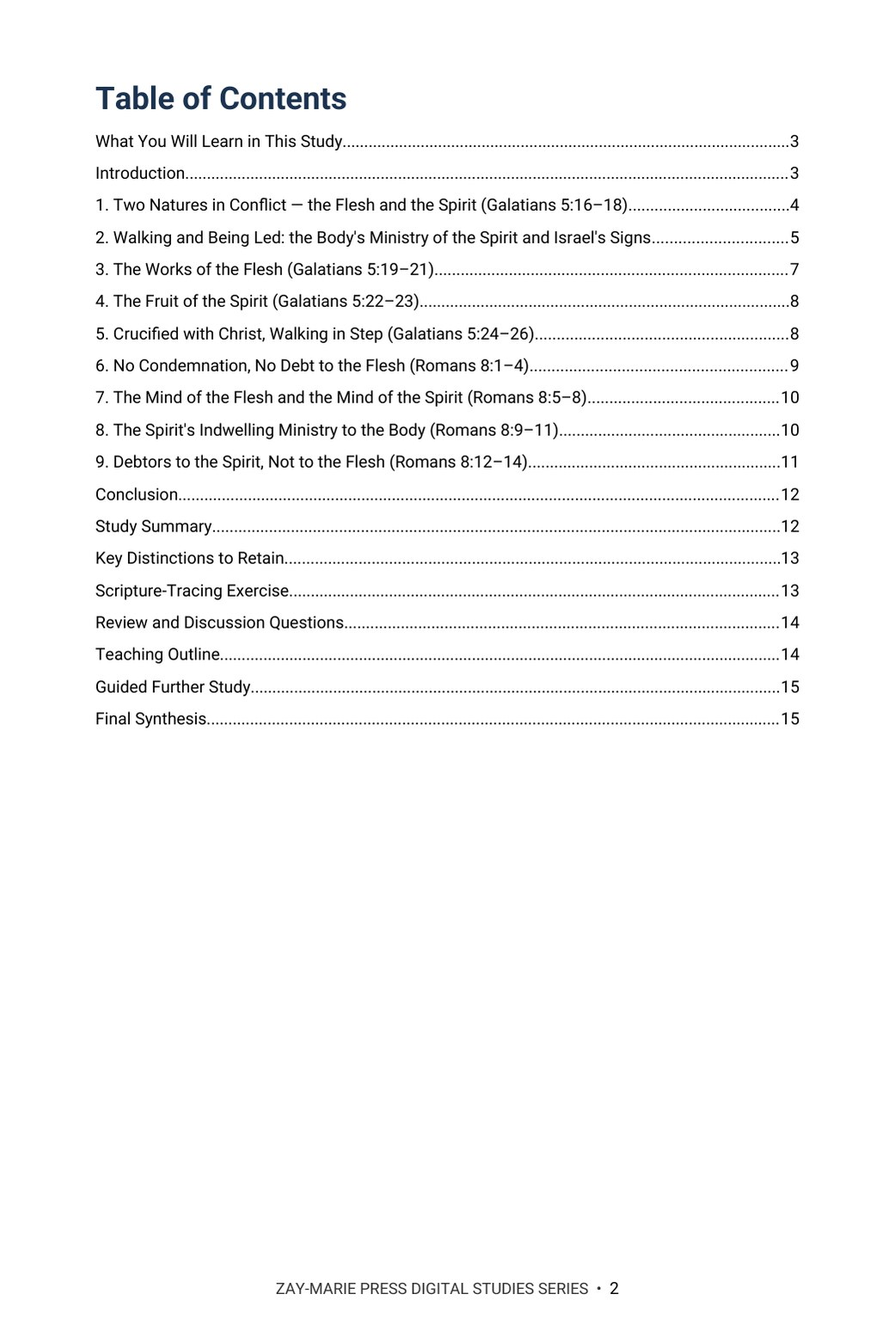
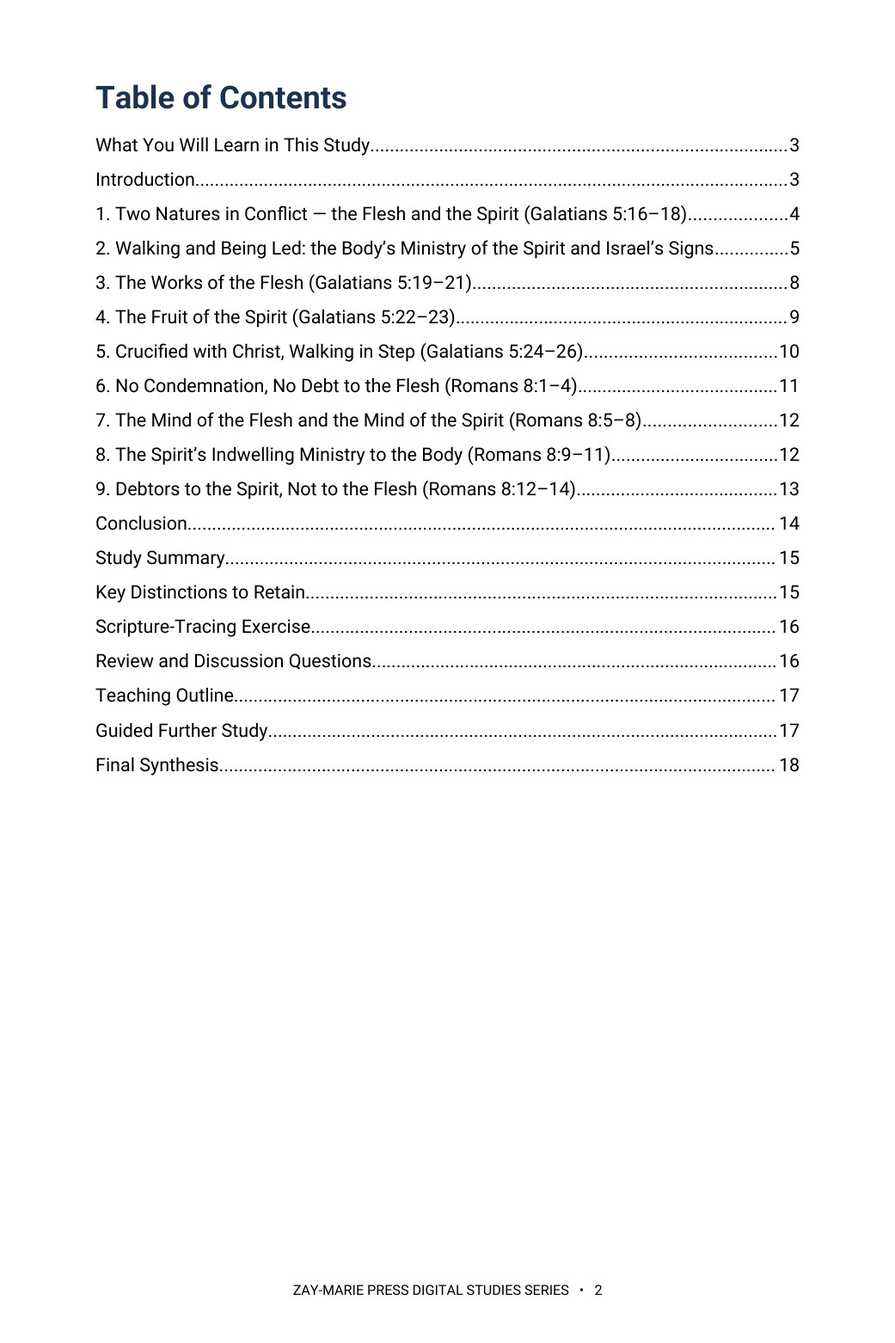
Study 44: rebuild in Roboto at 10 pt (19 pages), 1 Oct rulings re-applied, KJV tables, previews 2/3/8; trackers v1.75/v1.169
Claude-Session: https://claude.ai/code/session_01KcENxFzE91mCRyTPWhcwnE

Changed region(s): [[0.0922, 0.0615, 0.7992, 0.5839], [0.8607, 0.0922, 0.8915, 0.5839], [0.3074, 0.9526, 0.6763, 0.9834]]

diff --git a/study-44-walking-in-the-spirit.html b/study-44-walking-in-the-spirit.html
@@ -1,5 +1,5 @@
 <!doctype html>
 <html lang="en"><head><meta charset="utf-8"><meta name="viewport" content="width=device-width,initial-scale=1"><title>Walking in the Spirit | Zay-Marie Press</title><meta name="description" content="What does it mean, in Paul's own terms, to walk by the Spirit? Sort the Spirit's activity in Paul's letters from the signs and fillings recorded in Acts, then follow the works of the flesh and the fruit of the Spirit through Galatians 5 and Romans 8. Preview Study 44 from Zay-Marie Press."><link rel="stylesheet" href="styles.css?v=20260921-4"><link rel="icon" type="image/png" href="assets/zay-marie-press-favicon.png"><style>
 .study-detail-page{background:#fff;color:#252525}.detail-hero{background:linear-gradient(135deg,#f8f5ec,#e3ece2);padding:58px 0}.detail-hero-grid{display:grid;grid-template-columns:minmax(250px,.72fr) minmax(0,1.28fr);gap:58px;align-items:center}.detail-cover{max-width:390px;margin:auto}.detail-cover img{display:block;width:100%;height:auto;box-shadow:0 14px 36px rgba(8,45,69,.18)}.detail-hero h1{font-size:clamp(2.7rem,5vw,4.7rem);line-height:1.02;margin:8px 0 10px;color:#143823}.detail-subtitle{font-family:Georgia,serif;font-size:1.35rem;font-weight:700;color:#082d45;margin:0 0 7px}.detail-kicker{font-family:Georgia,serif;font-style:italic;font-size:1.05rem;color:#4a4a44;margin:0 0 22px}.detail-copy{font-size:1.08rem;line-height:1.65;max-width:760px}.detail-buyline{display:flex;align-items:center;gap:18px;flex-wrap:wrap;margin-top:25px}.detail-price{font-family:Georgia,serif;font-size:2rem;font-weight:700;color:#143823}.detail-format,.preview-card .page-no{font-family:Arial,sans-serif;font-size:.76rem;font-weight:700;letter-spacing:.1em;text-transform:uppercase;color:#176b3a}.detail-button{display:inline-block;background:#176b3a;color:#fff;padding:13px 22px;font-family:Arial,sans-serif;font-size:.8rem;font-weight:700;letter-spacing:.07em;text-transform:uppercase}.detail-button.pending{opacity:.72;cursor:default}.detail-section{padding:66px 0}.detail-section.soft{background:#f6f7f2}.detail-section.cream{background:#faf8f2}.detail-section h2{color:#143823;margin:6px 0 18px;font-size:clamp(2rem,3.4vw,3rem)}.detail-section .lead{max-width:920px;font-size:1.1rem;line-height:1.62}.study-distinction{max-width:920px;margin-top:28px;margin-bottom:28px;padding:26px 28px;background:#fff;border:1px solid #d8d1bf;border-left:4px solid #b8871c}.study-distinction h3{margin:0 0 10px;color:#143823}.study-distinction p{margin:0 0 14px;line-height:1.62}.study-distinction a{font-family:Arial,sans-serif;font-weight:700;color:#176b3a;text-decoration:none}.study-points{display:grid;grid-template-columns:repeat(3,1fr);gap:18px;margin-top:28px;margin-bottom:28px}.study-point,.scripture-card,.preview-card,.include-item{background:#fff;border:1px solid var(--line);text-align:left}.study-point{border-top:3px solid #176b3a;padding:22px}.study-point h3{color:#143823;margin:0 0 8px;font-size:1.2rem}.study-point p,.scripture-card p,.preview-card p,.include-item p{margin:0;line-height:1.55}.scripture-grid{display:grid;grid-template-columns:repeat(4,1fr);gap:14px;margin-top:24px;margin-bottom:24px}.scripture-card{padding:22px 20px;color:#143823}.scripture-card h3{margin:0 0 9px;font-family:Georgia,serif;font-size:1rem;line-height:1.35}.scripture-card p{font-size:.94rem;color:#45453f}.excerpt{max-width:900px;margin:28px auto;border-left:4px solid #b8871c;padding:10px 0 10px 28px}.excerpt blockquote{font-family:Georgia,serif;font-size:clamp(1.45rem,2.5vw,2rem);line-height:1.45;color:#143823;margin:0 0 16px}.excerpt p{line-height:1.6;margin:0}.preview-grid{display:grid;grid-template-columns:repeat(2,1fr);gap:20px;margin-top:28px;margin-bottom:28px}.preview-card{padding:18px;min-height:210px;box-shadow:0 7px 20px rgba(20,40,25,.05)}.preview-image-link{display:block;margin:0 0 18px}.preview-image-link img{display:block;width:100%;height:auto;border:1px solid #d8d1bf;box-shadow:0 8px 22px rgba(20,40,25,.1);transition:transform .18s ease,box-shadow .18s ease}.preview-image-link:hover img{transform:translateY(-2px);box-shadow:0 11px 28px rgba(20,40,25,.16)}.preview-card h3{color:#143823;margin:8px 0 10px}.preview-instruction{margin:10px 0 0;font-family:Arial,sans-serif;font-size:.78rem;letter-spacing:.04em;color:#5b5b55}.includes-grid{display:grid;grid-template-columns:repeat(4,1fr);gap:14px;margin-top:26px}.include-item{padding:22px 20px;color:#143823}.include-item h3{margin:0 0 9px;font-family:Arial,sans-serif;font-size:.86rem;line-height:1.35;letter-spacing:.02em}.include-item p{font-size:.94rem;color:#45453f}.final-buy{background:#082d45;color:#fff;border-top:4px solid #b8871c;padding:42px 48px;display:grid;grid-template-columns:1fr auto;gap:36px;align-items:center}.final-buy .eyebrow,.final-buy h2,.final-buy .detail-price{color:#fff}.final-buy h2{margin:7px 0 6px}.final-buy p{margin:0}.final-offer{text-align:center}.back-link{display:inline-block;margin-top:18px;color:#143823;font-family:Arial,sans-serif;font-weight:700;text-decoration:none}.preview-lightbox{position:fixed;inset:0;z-index:10000;display:none;align-items:flex-start;justify-content:center;background:rgba(8,22,16,.88);padding:24px;overflow:auto}.preview-lightbox.open{display:flex}.preview-lightbox img{display:block;width:auto;height:auto;max-width:none;box-shadow:0 18px 55px rgba(0,0,0,.4);background:#fff}.preview-lightbox-close{position:fixed;top:18px;right:24px;z-index:10001;width:46px;height:46px;border:1px solid rgba(255,255,255,.65);border-radius:50%;background:rgba(0,0,0,.55);color:#fff;font:32px/1 Arial,sans-serif;cursor:pointer}@media(max-width:900px){.detail-hero-grid{grid-template-columns:1fr;gap:34px}.detail-cover{max-width:330px}.study-points{grid-template-columns:repeat(2,1fr)}.scripture-grid,.includes-grid{grid-template-columns:repeat(2,1fr)}.preview-grid,.final-buy{grid-template-columns:1fr}.final-offer{text-align:left}}@media(max-width:560px){.detail-hero{padding:42px 0}.detail-section{padding:50px 0}.study-points,.scripture-grid,.includes-grid{grid-template-columns:1fr}.final-buy{padding:32px 24px}.detail-buyline{align-items:flex-start;flex-direction:column;gap:8px}.preview-lightbox{padding:58px 10px 24px}.preview-lightbox img{width:100%;max-width:100%;height:auto}} .detail-hero h1{font-size:clamp(2.1rem,4.2vw,3.7rem);line-height:1.08}</style></head><body class="study-detail-page">
-<header class="site-header"><div class="wrap nav"><a class="logo" href="index.html" aria-label="Zay-Marie Press home"><img src="assets/zay-marie-press-logo-hq.png" alt="Zay-Marie Press" width="420" height="238"></a><button class="menu-toggle" type="button" aria-expanded="false" aria-controls="primary-nav">MENU</button><nav aria-label="Primary navigation" class="primary-nav" id="primary-nav"><a href="index.html">HOME</a><a href="books.html">BOOKS</a><a href="series.html">SERIES</a><a class="active" aria-current="page" href="digital-studies.html">DIGITAL STUDIES</a><a href="biblical-hermeneutics-course.html">COURSE</a><a href="about.html">ABOUT</a><a href="resources.html">RESOURCES</a><a href="contact.html">CONTACT</a></nav></div></header><main><section class="detail-hero"><div class="wrap detail-hero-grid"><div class="detail-cover"><picture><source srcset="assets/study-44-cover.webp" type="image/webp"><img src="assets/study-44-cover.jpg" alt="Walking in the Spirit — Study 44 cover"></picture></div><div><div class="eyebrow">STUDY 44 · DIGITAL STUDY</div><h1>Walking in the Spirit</h1><p class="detail-subtitle">The Believer's Daily Walk, the Flesh, and the Fruit of the Spirit</p><p class="detail-kicker">A Biblical Examination of the Flesh/Spirit Conflict, the Body's Settled Ministry of the Spirit, and the Fruit That Walk Produces</p><p class="detail-copy">Every member of the Body of Christ discovers, usually not long after trusting Christ, that believing the gospel did not remove the capacity to sin. The flesh remains present in the believer's experience, standing opposed to the Spirit who indwells every believer from the moment of faith.</p><p class="detail-copy">This study asks a narrow, practical question: what does Paul actually say about living in that condition? It defines walking by the Spirit from Galatians 5 and Romans 8, sorts the Spirit's activity described in Paul's letters from the signs and repeated fillings recorded in Acts, and follows the works of the flesh and the fruit of the Spirit as Paul himself lists them.</p><div class="detail-buyline"><span class="detail-price">$5.99</span><span class="detail-format">Digital PDF · 16 Pages</span><span class="detail-button pending" aria-disabled="true">Checkout Coming Soon</span></div></div></div></section><section class="detail-section"><div class="wrap"><div class="eyebrow">ABOUT THIS STUDY</div><h2>A Conflict That Is Normal, Not a Sign of Failure</h2><p class="lead">The flesh and the Spirit stand genuinely opposed to one another inside every believer, and Paul treats that conflict as the normal condition of the present life, not evidence of spiritual failure. Reading Galatians 5 and Romans 8 in order shows what Paul actually commands in that condition: not trying harder to keep a rule, but a continuous, moment-by-moment dependence on the Spirit who already indwells.</p><p class="lead">This study is not a study of the believer's identity in Christ, which Study 16 examines, nor of the Acts-era fillings of the Spirit, which Study 34 examines, nor of the believer's new-creation standing, which Study 37 examines. It assumes each of those and asks a different question: given who the believer already is, how is the believer meant to walk, day by day?</p><div class="study-distinction"><h3>How These Studies Relate</h3><p>Study 44 defines what it means for a member of the Body of Christ to walk by the Spirit, and sorts that ongoing, present-age ministry from the signs and repeated fillings recorded in Acts.</p><p><a href="study-16-the-believers-identity-in-christ.html">Study 16 — The Believer's Identity in Christ</a> Start with the settled identity and standing this study assumes; Study 44 examines how that standing works itself out in daily conduct.</p><p><a href="study-34-filled-again.html">Study 34 — Filled Again</a> Read the Acts-era pattern of repeated, renewed fillings for Israel's apostolic servants; this study distinguishes that from the Body's settled, once-for-all indwelling.</p><p><a href="study-37-what-does-paul-mean-by-new-creation.html">Study 37 — What Does Paul Mean by “New Creation”?</a> Examine the accomplished new-creation standing this study presupposes without repeating; Study 44 focuses on the present-tense walk rather than the standing itself.</p><p class="connection-guide-link"><a href="study-connections.html#study-44">Explore the full connection guide for Study 44 →</a></p></div></div></section><section class="detail-section soft"><div class="wrap"><div class="eyebrow">WHAT YOU’LL STUDY</div><h2>Follow the Walk From Command to Conflict to Fruit</h2><div class="study-points"><div class="study-point"><h3>Two Natures in Conflict</h3><p>Read Galatians 5:16–18 to see what Paul says about walking by the Spirit and how the flesh and the Spirit relate in the believer.</p></div><div class="study-point"><h3>Whose Ministry This Is</h3><p>Sort the Spirit's activity in Paul's letters from the activity recorded in Acts by audience, setting, and vocabulary.</p></div><div class="study-point"><h3>The Works of the Flesh</h3><p>Read Galatians 5:19–21's list on its own terms, and test whether it describes a habitual life pattern or an isolated lapse.</p></div><div class="study-point"><h3>The Fruit of the Spirit</h3><p>Trace why Paul writes “fruit,” singular, and test what that grammar implies about how it comes about.</p></div><div class="study-point"><h3>No Condemnation</h3><p>Trace how Romans 8:1–4 relates the daily walk to the verdict announced in verse 1.</p></div><div class="study-point"><h3>Debtors to the Spirit</h3><p>Follow Romans 8:12–14 and note what Paul says being led by the Spirit identifies.</p></div></div></div></section><section class="detail-section cream"><div class="wrap"><div class="eyebrow">KEY SCRIPTURES</div><h2>Examine the Passages for Yourself</h2><div class="scripture-grid"><div class="scripture-card"><h3>Galatians 5:16–18</h3><p>Walk in the Spirit, and the flesh and Spirit are shown genuinely opposed to one another.</p></div><div class="scripture-card"><h3>Galatians 5:19–21</h3><p>The works of the flesh, plural and manifest, as Paul actually lists them.</p></div><div class="scripture-card"><h3>Galatians 5:22–23</h3><p>The fruit of the Spirit — singular — against which Paul says there is no law.</p></div><div class="scripture-card"><h3>Galatians 5:24–26</h3><p>Have crucified the flesh; let us also walk — the fact and the command.</p></div><div class="scripture-card"><h3>Romans 8:1–4</h3><p>No condemnation, and why the law could not produce righteousness in experience.</p></div><div class="scripture-card"><h3>Romans 8:5–8</h3><p>The mind of the flesh and the mind of the Spirit, and their stated outcomes.</p></div><div class="scripture-card"><h3>Romans 8:9–11</h3><p>The Spirit's permanent indwelling, and what it guarantees for the future.</p></div><div class="scripture-card"><h3>Romans 8:12–14</h3><p>Debtors to the Spirit, and the sonship that being led by the Spirit confirms.</p></div></div></div></section><section class="detail-section"><div class="wrap"><div class="eyebrow">FROM THE STUDY</div><h2>The Walk Is the Means, the Fruit Is What It Yields</h2><div class="excerpt"><blockquote>“Works” (plural, effort-driven) stands against “fruit” (singular, grown rather than manufactured).</blockquote><p>Paul's imperative in Galatians 5:16 is to walk in the Spirit, not to produce the nine qualities of the fruit directly. The walk is the means; the fruit is what the walk yields — the way a healthy tree bears fruit as an outworking of its nature rather than as a series of independent labors.</p></div></div></section><section class="detail-section soft"><div class="wrap"><div class="eyebrow">A LOOK INSIDE</div><h2>Preview the Study Before You Purchase</h2><p class="preview-instruction">Click any page to enlarge it for reading.</p><div class="preview-grid"><div class="preview-card"><a class="preview-image-link" data-preview-lightbox href="assets/study-44-page-2.jpg"><img src="assets/study-44-page-2.jpg" alt="Study 44 interior preview — page 2, table of contents"/></a><div class="page-no">Page 2</div><h3>Table of Contents</h3><p>See the full structure of the study, from the introduction through the final synthesis.</p></div><div class="preview-card"><a class="preview-image-link" data-preview-lightbox href="assets/study-44-page-3.jpg"><img src="assets/study-44-page-3.jpg" alt="Study 44 interior preview — page 3, what you will learn"/></a><div class="page-no">Page 3</div><h3>What You Will Learn</h3><p>See the study’s goals, controls, and central question at a glance.</p></div><div class="preview-card"><a class="preview-image-link" data-preview-lightbox href="assets/study-44-page-7.jpg"><img src="assets/study-44-page-7.jpg" alt="Study 44 interior preview — page 7, Paul’s statements on sealing and indwelling in KJV wording"/></a><div class="page-no">Page 7</div><h3>Sealing and Indwelling in Paul’s Words</h3><p>Read Paul’s statements on sealing and indwelling in KJV wording and observe the verb tenses in each.</p></div></div></div></section><section class="detail-section"><div class="wrap"><div class="eyebrow">WHAT’S INCLUDED</div><h2>A Focused Study Built for<br>Understanding and Teaching</h2><div class="includes-grid"><div class="include-item"><h3>16-Page In-Depth Biblical Study</h3><p>A careful study of the believer's daily walk, the flesh, and the fruit of the Spirit.</p></div><div class="include-item"><h3>9 Core Teaching Sections</h3><p>Progress from the command and the conflict through the works of the flesh to the fruit and its legal ground.</p></div><div class="include-item"><h3>Four Reference Tables</h3><p>Compare the Spirit's activity in Paul's letters with the activity recorded in Acts, and read the key passages in KJV wording.</p></div><div class="include-item"><h3>7 Review Questions</h3><p>Test the study's distinctions concerning the flesh, the Spirit, and the ground of the walk.</p></div><div class="include-item"><h3>Teaching Outline</h3><p>An eight-point framework for teaching the flesh/Spirit conflict and the fruit of the Spirit with precision.</p></div><div class="include-item"><h3>Guided Further Study</h3><p>Return to the Spirit's sealing, Acts-era fillings, the flesh, and sonship with directed questions.</p></div><div class="include-item"><h3>Scripture-Tracing Exercise</h3><p>Trace the study's key passages across Galatians 5 and Romans 8 in their own context.</p></div><div class="include-item"><h3>Final Synthesis Exercise</h3><p>Bring the evidence together in one coherent, Scripture-based explanation.</p></div></div></div></section><section class="detail-section cream"><div class="wrap"><div class="final-buy"><div><div class="eyebrow">STUDY 44 · DIGITAL STUDY</div><h2>Walking in the Spirit</h2><p>16-page digital PDF · For personal use</p></div><div class="final-offer"><div class="detail-price">$5.99</div><span class="detail-button pending" aria-disabled="true">Checkout Coming Soon</span></div></div><a class="back-link" href="digital-studies.html">← Back to All Digital Studies</a></div></section><section class="study-method-course-bridge"><div class="wrap"><div class="study-method-course-panel"><div><div class="eyebrow">BUILD THE INTERPRETIVE METHOD</div><h2>Want More Than a Focused Study?</h2><p>Digital Studies examine particular biblical subjects and difficult passages. The 40-lesson Biblical Hermeneutics course teaches a complete, repeatable method for establishing meaning in context, determining proper assignment, and making responsible application.</p></div><a class="btn btn-primary" href="biblical-hermeneutics-course.html">BIBLICAL HERMENEUTICS COURSE</a></div></div></section></main>
+<header class="site-header"><div class="wrap nav"><a class="logo" href="index.html" aria-label="Zay-Marie Press home"><img src="assets/zay-marie-press-logo-hq.png" alt="Zay-Marie Press" width="420" height="238"></a><button class="menu-toggle" type="button" aria-expanded="false" aria-controls="primary-nav">MENU</button><nav aria-label="Primary navigation" class="primary-nav" id="primary-nav"><a href="index.html">HOME</a><a href="books.html">BOOKS</a><a href="series.html">SERIES</a><a class="active" aria-current="page" href="digital-studies.html">DIGITAL STUDIES</a><a href="biblical-hermeneutics-course.html">COURSE</a><a href="about.html">ABOUT</a><a href="resources.html">RESOURCES</a><a href="contact.html">CONTACT</a></nav></div></header><main><section class="detail-hero"><div class="wrap detail-hero-grid"><div class="detail-cover"><picture><source srcset="assets/study-44-cover.webp" type="image/webp"><img src="assets/study-44-cover.jpg" alt="Walking in the Spirit — Study 44 cover"></picture></div><div><div class="eyebrow">STUDY 44 · DIGITAL STUDY</div><h1>Walking in the Spirit</h1><p class="detail-subtitle">The Believer's Daily Walk, the Flesh, and the Fruit of the Spirit</p><p class="detail-kicker">A Biblical Examination of the Flesh/Spirit Conflict, the Body's Settled Ministry of the Spirit, and the Fruit That Walk Produces</p><p class="detail-copy">Every member of the Body of Christ discovers, usually not long after trusting Christ, that believing the gospel did not remove the capacity to sin. The flesh remains present in the believer's experience, standing opposed to the Spirit who indwells every believer from the moment of faith.</p><p class="detail-copy">This study asks a narrow, practical question: what does Paul actually say about living in that condition? It defines walking by the Spirit from Galatians 5 and Romans 8, sorts the Spirit's activity described in Paul's letters from the signs and repeated fillings recorded in Acts, and follows the works of the flesh and the fruit of the Spirit as Paul himself lists them.</p><div class="detail-buyline"><span class="detail-price">$5.99</span><span class="detail-format">Digital PDF · 19 Pages</span><span class="detail-button pending" aria-disabled="true">Checkout Coming Soon</span></div></div></div></section><section class="detail-section"><div class="wrap"><div class="eyebrow">ABOUT THIS STUDY</div><h2>A Conflict That Is Normal, Not a Sign of Failure</h2><p class="lead">The flesh and the Spirit stand genuinely opposed to one another inside every believer, and Paul treats that conflict as the normal condition of the present life, not evidence of spiritual failure. Reading Galatians 5 and Romans 8 in order shows what Paul actually commands in that condition: not trying harder to keep a rule, but a continuous, moment-by-moment dependence on the Spirit who already indwells.</p><p class="lead">This study is not a study of the believer's identity in Christ, which Study 16 examines, nor of the Acts-era fillings of the Spirit, which Study 34 examines, nor of the believer's new-creation standing, which Study 37 examines. It assumes each of those and asks a different question: given who the believer already is, how is the believer meant to walk, day by day?</p><div class="study-distinction"><h3>How These Studies Relate</h3><p>Study 44 defines what it means for a member of the Body of Christ to walk by the Spirit, and sorts that ongoing, present-age ministry from the signs and repeated fillings recorded in Acts.</p><p><a href="study-16-the-believers-identity-in-christ.html">Study 16 — The Believer's Identity in Christ</a> Start with the settled identity and standing this study assumes; Study 44 examines how that standing works itself out in daily conduct.</p><p><a href="study-34-filled-again.html">Study 34 — Filled Again</a> Read the Acts-era pattern of repeated, renewed fillings for Israel's apostolic servants; this study distinguishes that from the Body's settled, once-for-all indwelling.</p><p><a href="study-37-what-does-paul-mean-by-new-creation.html">Study 37 — What Does Paul Mean by “New Creation”?</a> Examine the accomplished new-creation standing this study presupposes without repeating; Study 44 focuses on the present-tense walk rather than the standing itself.</p><p class="connection-guide-link"><a href="study-connections.html#study-44">Explore the full connection guide for Study 44 →</a></p></div></div></section><section class="detail-section soft"><div class="wrap"><div class="eyebrow">WHAT YOU’LL STUDY</div><h2>Follow the Walk From Command to Conflict to Fruit</h2><div class="study-points"><div class="study-point"><h3>Two Natures in Conflict</h3><p>Read Galatians 5:16–18 to see what Paul says about walking by the Spirit and how the flesh and the Spirit relate in the believer.</p></div><div class="study-point"><h3>Whose Ministry This Is</h3><p>Sort the Spirit's activity in Paul's letters from the activity recorded in Acts by audience, setting, and vocabulary.</p></div><div class="study-point"><h3>The Works of the Flesh</h3><p>Read Galatians 5:19–21's list on its own terms, and test whether it describes a habitual life pattern or an isolated lapse.</p></div><div class="study-point"><h3>The Fruit of the Spirit</h3><p>Trace why Paul writes “fruit,” singular, and test what that grammar implies about how it comes about.</p></div><div class="study-point"><h3>No Condemnation</h3><p>Trace how Romans 8:1–4 relates the daily walk to the verdict announced in verse 1.</p></div><div class="study-point"><h3>Debtors to the Spirit</h3><p>Follow Romans 8:12–14 and note what Paul says being led by the Spirit identifies.</p></div></div></div></section><section class="detail-section cream"><div class="wrap"><div class="eyebrow">KEY SCRIPTURES</div><h2>Examine the Passages for Yourself</h2><div class="scripture-grid"><div class="scripture-card"><h3>Galatians 5:16–18</h3><p>Walk in the Spirit, and the flesh and Spirit are shown genuinely opposed to one another.</p></div><div class="scripture-card"><h3>Galatians 5:19–21</h3><p>The works of the flesh, plural and manifest, as Paul actually lists them.</p></div><div class="scripture-card"><h3>Galatians 5:22–23</h3><p>The fruit of the Spirit — singular — against which Paul says there is no law.</p></div><div class="scripture-card"><h3>Galatians 5:24–26</h3><p>Have crucified the flesh; let us also walk — the fact and the command.</p></div><div class="scripture-card"><h3>Romans 8:1–4</h3><p>No condemnation, and why the law could not produce righteousness in experience.</p></div><div class="scripture-card"><h3>Romans 8:5–8</h3><p>The mind of the flesh and the mind of the Spirit, and their stated outcomes.</p></div><div class="scripture-card"><h3>Romans 8:9–11</h3><p>The Spirit's permanent indwelling, and what it guarantees for the future.</p></div><div class="scripture-card"><h3>Romans 8:12–14</h3><p>Debtors to the Spirit, and the sonship that being led by the Spirit confirms.</p></div></div></div></section><section class="detail-section"><div class="wrap"><div class="eyebrow">FROM THE STUDY</div><h2>The Walk Is the Means, the Fruit Is What It Yields</h2><div class="excerpt"><blockquote>“Works” (plural, effort-driven) stands against “fruit” (singular, grown rather than manufactured).</blockquote><p>Paul's imperative in Galatians 5:16 is to walk in the Spirit, not to produce the nine qualities of the fruit directly. The walk is the means; the fruit is what the walk yields — the way a healthy tree bears fruit as an outworking of its nature rather than as a series of independent labors.</p></div></div></section><section class="detail-section soft"><div class="wrap"><div class="eyebrow">A LOOK INSIDE</div><h2>Preview the Study Before You Purchase</h2><p class="preview-instruction">Click any page to enlarge it for reading.</p><div class="preview-grid"><div class="preview-card"><a class="preview-image-link" data-preview-lightbox href="assets/study-44-page-2.jpg"><img src="assets/study-44-page-2.jpg" alt="Study 44 interior preview — page 2, table of contents"/></a><div class="page-no">Page 2</div><h3>Table of Contents</h3><p>See the full structure of the study, from the introduction through the final synthesis.</p></div><div class="preview-card"><a class="preview-image-link" data-preview-lightbox href="assets/study-44-page-3.jpg"><img src="assets/study-44-page-3.jpg" alt="Study 44 interior preview — page 3, what you will learn"/></a><div class="page-no">Page 3</div><h3>What You Will Learn</h3><p>See the study’s goals, controls, and central question at a glance.</p></div><div class="preview-card"><a class="preview-image-link" data-preview-lightbox href="assets/study-44-page-8.jpg"><img src="assets/study-44-page-8.jpg" alt="Study 44 interior preview — page 8, Paul’s statements on sealing and indwelling in KJV wording"/></a><div class="page-no">Page 8</div><h3>Sealing and Indwelling in Paul’s Words</h3><p>Read Paul’s statements on sealing and indwelling in KJV wording and observe the verb tenses in each.</p></div></div></div></section><section class="detail-section"><div class="wrap"><div class="eyebrow">WHAT’S INCLUDED</div><h2>A Focused Study Built for<br>Understanding and Teaching</h2><div class="includes-grid"><div class="include-item"><h3>18-Page In-Depth Biblical Study</h3><p>A careful study of the believer's daily walk, the flesh, and the fruit of the Spirit.</p></div><div class="include-item"><h3>9 Core Teaching Sections</h3><p>Progress from the command and the conflict through the works of the flesh to the fruit and its legal ground.</p></div><div class="include-item"><h3>Four Reference Tables</h3><p>Compare the Spirit's activity in Paul's letters with the activity recorded in Acts, and read the key passages in KJV wording.</p></div><div class="include-item"><h3>7 Review Questions</h3><p>Test the study's distinctions concerning the flesh, the Spirit, and the ground of the walk.</p></div><div class="include-item"><h3>Teaching Outline</h3><p>An eight-point framework for teaching the flesh/Spirit conflict and the fruit of the Spirit with precision.</p></div><div class="include-item"><h3>Guided Further Study</h3><p>Return to the Spirit's sealing, Acts-era fillings, the flesh, and sonship with directed questions.</p></div><div class="include-item"><h3>Scripture-Tracing Exercise</h3><p>Trace the study's key passages across Galatians 5 and Romans 8 in their own context.</p></div><div class="include-item"><h3>Final Synthesis Exercise</h3><p>Bring the evidence together in one coherent, Scripture-based explanation.</p></div></div></div></section><section class="detail-section cream"><div class="wrap"><div class="final-buy"><div><div class="eyebrow">STUDY 44 · DIGITAL STUDY</div><h2>Walking in the Spirit</h2><p>19-page digital PDF · For personal use</p></div><div class="final-offer"><div class="detail-price">$5.99</div><span class="detail-button pending" aria-disabled="true">Checkout Coming Soon</span></div></div><a class="back-link" href="digital-studies.html">← Back to All Digital Studies</a></div></section><section class="study-method-course-bridge"><div class="wrap"><div class="study-method-course-panel"><div><div class="eyebrow">BUILD THE INTERPRETIVE METHOD</div><h2>Want More Than a Focused Study?</h2><p>Digital Studies examine particular biblical subjects and difficult passages. The 40-lesson Biblical Hermeneutics course teaches a complete, repeatable method for establishing meaning in context, determining proper assignment, and making responsible application.</p></div><a class="btn btn-primary" href="biblical-hermeneutics-course.html">BIBLICAL HERMENEUTICS COURSE</a></div></div></section></main>
 <div class="preview-lightbox" id="preview-lightbox" role="dialog" aria-modal="true" aria-label="Expanded study preview"><button class="preview-lightbox-close" type="button" aria-label="Close preview">×</button><img id="preview-lightbox-image" alt=""></div><footer class="site-footer"><div class="wrap footer-grid"><div class="footer-about"><h3>Zay-Marie Press</h3><p class="footer-tagline"><em>Where the Bible Means What It Says.</em></p><p>Zay-Marie Press is a Christian theological publisher dedicated to producing doctrinally precise, carefully structured biblical resources that equip pastors, teachers, and serious students with clarity, depth, and Scripture-anchored truth.</p><p><a href="https://zaymariepress.com">zaymariepress.com</a><br><a href="mailto:info@zaymariepress.com">info@zaymariepress.com</a></p></div><div class="footer-column"><h3>Explore</h3><div class="footer-links-stacked"><a href="books.html">Books</a><br><a href="series.html">Series</a><br><a href="biblical-hermeneutics-course.html">Course</a><br><a href="digital-studies.html">Digital Studies</a><br><a href="resources.html">Resources</a><br><a href="bible-book-summaries.html">Bible Book Summaries</a><br><a href="doctrinal-packets.html">Doctrinal Packets</a><br><a href="historical-drift.html">Historical Drift</a><br><a href="about.html">About</a><br><a href="contact.html">Contact</a></div></div><div class="footer-column"><h3>Reader Support</h3><div class="footer-links-stacked"><a href="reader-support.html#faq">FAQ</a><br><a href="reader-support.html#shipping-returns">Shipping &amp; Returns</a><br><a href="reader-support.html#digital-downloads">Digital Downloads</a><br><a href="reader-support.html#contact-support">Contact Support</a></div></div><div class="footer-column"><h3>Acts Overlap</h3><p><strong>Acts Overlap Theology Series</strong></p><p><em>Two Distinct Streams. One Overlap.</em></p><p><a href="series.html">Series Overview</a></p></div></div><div class="wrap footer-bottom">© 2026 Zay-Marie Press. All rights reserved.</div></footer><script src="site.js"></script><script>const lightbox=document.getElementById('preview-lightbox'),lightboxImage=document.getElementById('preview-lightbox-image'),closeLightbox=()=>{lightbox.classList.remove('open');lightboxImage.src='';};document.querySelectorAll('[data-preview-lightbox]').forEach(link=>link.addEventListener('click',event=>{event.preventDefault();lightboxImage.src=link.href;lightboxImage.alt=link.querySelector('img').alt;lightbox.classList.add('open');}));document.querySelector('.preview-lightbox-close').addEventListener('click',closeLightbox);lightbox.addEventListener('click',event=>{if(event.target===lightbox)closeLightbox();});document.addEventListener('keydown',event=>{if(event.key==='Escape')closeLightbox();});</script></body></html>

diff --git a/site.js b/site.js
@@ -62,7 +62,7 @@ const resourceModal=document.querySelector('#resource-modal'), resourceModalTitl
 if(resourceModal&&resourceModalTriggers.length){const closeResourceModal=()=>{resourceModal.hidden=true;document.body.classList.remove('resource-modal-open');lastResourceTrigger?.focus();};resourceModalTriggers.forEach(trigger=>trigger.addEventListener('click',()=>{lastResourceTrigger=trigger;if(resourceModalTitle)resourceModalTitle.textContent=trigger.dataset.title||'Resource';if(resourceModalDescription)resourceModalDescription.textContent=trigger.dataset.description||'';if(resourceModalLink){resourceModalLink.href=trigger.dataset.href||'#';resourceModalLink.textContent=trigger.dataset.linkText||'OPEN RESOURCE';}resourceModal.hidden=false;document.body.classList.add('resource-modal-open');resourceModalClose?.focus();}));resourceModalClose?.addEventListener('click',closeResourceModal);resourceModal.addEventListener('click',e=>{if(e.target===resourceModal)closeResourceModal();});document.addEventListener('keydown',e=>{if(e.key==='Escape'&&!resourceModal.hidden)closeResourceModal();});}
 
 /* Display the verified final-PDF page count at the primary purchase decision point. */
-const digitalStudyPageCounts={1:17,2:19,3:16,4:18,5:16,6:16,7:14,8:13,9:16,10:20,11:15,12:15,13:19,14:15,15:15,16:16,17:18,18:18,19:16,20:16,21:17,22:16,23:14,24:16,25:17,26:16,27:16,28:16,29:19,30:17,31:18,32:19,33:18,34:16,35:16,36:16,37:16,38:16,39:16,40:16,41:16,42:17,43:17,44:16,45:16,46:20,47:16,48:16,49:17,50:16,51:16,52:19,53:19,54:17,55:20,56:20,57:20,58:19,59:20,60:15,61:16,62:16,63:16,64:16,65:16,66:16,67:16,68:16,69:16,70:16,71:16};
+const digitalStudyPageCounts={1:17,2:19,3:16,4:18,5:16,6:16,7:14,8:13,9:16,10:20,11:15,12:15,13:19,14:15,15:15,16:16,17:18,18:18,19:16,20:16,21:17,22:16,23:14,24:16,25:17,26:16,27:16,28:16,29:19,30:17,31:18,32:19,33:18,34:16,35:16,36:16,37:16,38:16,39:16,40:16,41:16,42:17,43:17,44:19,45:16,46:20,47:16,48:16,49:17,50:16,51:16,52:19,53:19,54:17,55:20,56:20,57:20,58:19,59:20,60:15,61:16,62:16,63:16,64:16,65:16,66:16,67:16,68:16,69:16,70:16,71:16};
 const digitalStudyMatch=window.location.pathname.match(/\/study-(\d+)-/i);
 const digitalStudyFormat=document.querySelector('.detail-hero .detail-format');
 if(digitalStudyMatch&&digitalStudyFormat){const studyNumber=Number(digitalStudyMatch[1]),pageCount=digitalStudyPageCounts[studyNumber];if(pageCount)digitalStudyFormat.textContent=`Digital PDF · ${pageCount} Pages`;}

diff --git a/CLAUDE.md b/CLAUDE.md
@@ -23,7 +23,7 @@ These are kept in the repo at `controlling-documents/` and are the current versi
 - As of v1.50 (publisher directive, 2026-10-03), the **What You Will Learn in This Study** section is always bulleted, never set as running paragraphs, written into this file in the same pass (Master Standard Section 3 item 4, Section 6 structure line, Section 22): a list of bullet points, each describing one process, textual marker or interpretive discipline the reader will practice (Section 17 still governs what they may say); at most one short lead-in line may stand above the bullets (for example, “By the end of this study, you should be able to:”); the Study Goal callout and the Study Outline keep their own forms. It governs every new study and every study rebuilt or retrofitted from now on; earlier studies take it when reopened or when the publisher directs. In every study check (Step 1), report whether the section is bulleted. First applied to Study 43.
 **`controlling-documents/Digital_Studies_Relationship_Map_v1.39.md`** — records each study's distinct subject, its related studies, the eight priced six-study collections, the Paul's Missionary Journeys cross-reference map, and the five primary catalog categories (currently version 1.39, covers Studies 1–71; update it as new studies publish, bump the version number, rename the file to match, and log the change in its own version-history table — mirroring the Master Standard's `_vX.Y` filename convention). Check a proposed topic against it before recommending or writing a new study. (2026-09-28: the file was missing from this repo despite this note referencing it; replaced from the publisher's copy and bumped v1.15→v1.25 in the same pass. If this note ever again points to a version not present under `controlling-documents/`, ask the publisher for a copy rather than proceeding without the check.)
 - **`controlling-documents/Digital_Studies_Category_Standard_v1.1.md`** — FINAL and binding (publisher, 2026-10-01): the rules for the five primary catalog categories (Foundations, Israel & Prophecy, Body of Christ, Passages, Doctrinal Themes), the ordered decision procedure for new studies, the precedents, all 71 fixed assignments, and the cover-label form for each category. Read it before placing any card or cover label. Do not ask the publisher where a study belongs; apply the procedure and state the result. Only the publisher changes a ruling; then bump this Standard's version and filename, re-letter the cover, and update the Relationship Map.
-- **`controlling-documents/Doctrinal_Upgrade_Retrofit_Plan_v1.74.md`** — working tracker for retrofitting Studies 1–59 to the 2026-10-02 doctrinal upgrade (Framework/PAM v1.1, Master Standard v1.40, Rules 7–17): withdrawn-wording search keys, impact tiers, waves and the per-study method. Read it before continuing the retrofit in any session; update status, bump the version and rename the file as work proceeds.
+- **`controlling-documents/Doctrinal_Upgrade_Retrofit_Plan_v1.75.md`** — working tracker for retrofitting Studies 1–59 to the 2026-10-02 doctrinal upgrade (Framework/PAM v1.1, Master Standard v1.40, Rules 7–17): withdrawn-wording search keys, impact tiers, waves and the per-study method. Read it before continuing the retrofit in any session; update status, bump the version and rename the file as work proceeds.
 - **`controlling-documents/Doctrinal_Packet_Standard_v0.3.md`** — Doctrinal Packet Standard (DRAFT; §7 approved). Governs the separate Doctrinal Packets product strand (5-page interpretive PDFs per Bible book — a print-friendly cover as page 1 plus 4 content pages, $2.99, KJV, pilot: Genesis, live at `packet-genesis.html`, hub `doctrinal-packets.html`; site pages say "5 Pages", cover styles live in `packets.css`, Old Testament blue and New Testament soft pale green, hub listed in Bible order). **Preview rule (publisher directive, 2026-09-29, packets only):** previews show about one page's worth in two cropped views (top of page 1 through the anchor texts; the chart section) — never the exegesis, architecture, Mystery contrast, logic chain, outline, or closing. Master Standard §16/§17 still govern Digital Studies. Bump the version and rename the file as the Standard is finalized.
 - **`controlling-documents/Preview_Page_Spoiler_Retrofit_Audit_v1.4.md`** — working tracker for the Studies 1–60 preview-page conclusion-spoiler retrofit (see the section below). Read it before continuing that audit in any session; update its status fields and changelog, bump the version, and rename the file to match as the audit proceeds — same `_vX.Y` convention as the other controlling documents. As of v1.1, the website-side half was DONE: all 60 studies' "What You'll Study" text was judged against the rule (methodology documented in the file) and 22 points across 11 studies were rewritten and pushed; an unrelated Study 22 content bug (Study 21's content had leaked into it) was also found and fixed. As of v1.2, the publisher supplied Studies 1–60's interior production PDFs and the interior-PDF half was also surveyed (read-only): 10 studies (37, 41, 45, 47, 48, 49, 51, 52, 53, 54) were found to have at least one interior "What You Will Learn" violation, 50 studies were confirmed compliant, and the orphaned `assets/study-45-sanctification-under-grace.docx` (removed from the repo per the publisher in v1.0) was confirmed word-for-word identical to Study 45's actual production interior PDF content. As of v1.3, the publisher supplied editable DOCX sources for all 10 violating studies; all 15 violating points were rewritten and approved, delivered as corrected final PDFs, and — along the way — a second defect was found and fixed (Studies 47 and 48's source DOCX still had an unintegrated cover placeholder despite both being long-published live with real covers; fixed by inserting the existing approved cover art). The website's "What You Will Learn" preview image (`study-NN-page-3.jpg`) was regenerated from the corrected content for all 10 studies and pushed to `main` (commit `cea1859`), verified against a fresh clone. **The website side of this audit is now fully compliant for all 60 studies.** Outstanding: the publisher's purchasable interior PDF files themselves have corrected versions delivered, but distribution to existing purchasers was decided by the publisher on 2026-09-29: silent swap of the files behind the existing downloads, no reissue notice (recorded in the v1.4 changelog entry; the product files are not in this repo).
 

diff --git a/controlling-documents/Doctrinal_Upgrade_Retrofit_Plan_v1.75.md b/controlling-documents/Doctrinal_Upgrade_Retrofit_Plan_v1.75.md
@@ -167,3 +167,4 @@ Working tracker for correcting published studies to the Framework/PAM v1.1, Mast
 - v1.72 (2026-10-03): Study 43 rebuilt in Roboto at 10 pt on the current page from the publisher’s newest DOCX (Plex Serif master; no 'does not assign' lines) and approved Rule 19 wording. Rule 19: every "finished work" / "shared ground" place replaced (Introduction, Section 2, Section 10 opening, Key Distinctions, Study Outline and Teaching Outline bullets) with "Salvation is always by faith, never by merit; the content of faith is what God revealed within each program" and the Prophecy-saints/Body contrast; Section 10 retitled "Faith Without Merit, Distinct Messages"; "Faith without merit ≠ the same gospel". Rule 18: full standing sentence added after the "to the Jew first" paragraph (§5) and the short form after the Acts 13 paragraph (§9); Acts 28 "not abolition and not a transfer" in §5. "Acts Overlap Theology supplies the controls" and two "framework" labels reworded. Structure to the Study 52 standard: bulleted What You Will Learn with the lead-in (new bullets drafted from the text, approved), seven inline callouts reduced to five boxed (Content and Righteousness demoted to body paragraphs with bold run-in leads), Roman-numeral Teaching Outline renumbered. 17 pages (was 20). `site.js` 43:17; page-count text 20→17; previews 2, 3 and 8 (third moved from page 10 to 8: the audience section; `study-43-page-10.jpg` removed). Imprint orphan fixed with layout-only keep-together. Next: Study 54 (DOCX received); 42, 44, 45, 47, 48, 49, 50, 51 need Roboto finals or a rebuild; 62–70 first retrofit; the 24 older-page studies.
 - v1.73 (2026-10-03): Study 54 rebuilt in Roboto at 10 pt on the current page from the publisher's REVISED DOCX, 17 pages (cover plus 16). Rule 19: seven shared-ground lines reworded (Introduction, 3.8, 5.4, Key Distinctions, Romans 3:29–30 note, final comparison, Guided Further Study); Body-specific 'finished work' kept. Romans 11:6 boundaries and triad added (Group 1); Galatians 3 sentence added (5.4); Romans 9:32 callout demoted to body (5 callouts); three What You Will Learn bullets reworded to process; previews 2/3/5 re-rendered; site.js 54:17; page-count text 17.
 - v1.74 (2026-10-03): Study 42 rebuilt in Roboto at 10 pt on the current page from the 23 Sept master, 17 pages (cover plus 16). Reader-facing: three 'framework'/'Acts Overlap Theology' wordings converted; Acts 28 national judicial suspension added; Rule 18 full paragraph and short form added (Section 6); Rule 11 sentence added (Acts 19:1–7); anchor lines added for Hebrews 6:1–2 (Hebrews sentence), 1 Peter 3:20–21 and Colossians 2:11–12 (letter form); Vocabulary Control demoted to body (5 callouts); What You Will Learn rewritten as six process bullets; previews 2/3/6 re-rendered; site.js 42:17; page-count text 17.
+- v1.75 (2026-10-03): Study 44 rebuilt in Roboto at 10 pt on the current page from the 24 Sept master (v6 with cover), 19 pages (cover plus 18), with the 1 Oct rulings re-applied (Rule 11 paragraph, Acts column title, Introduction and 1 Cor 12:13 rewording, process-wording What You Will Learn and Study Goal, five callouts, flat TOC, bold-lead Teaching Outline). Rule 13/11: Acts 2–8 versus Paul's Acts 13–14 and 28 fillings and signs reported from the text; group title now 'Fillings and Signs Recorded in Acts'. 'controlling framework' removed; Colossians 3:5–9 letter line added. Three KJV tables restored (sealing and indwelling transcribed from the approved preview; Acts 'filled' passages and Rom 8:15–17 with Gal 4:6–7 drafted from the KJV for the publisher's review). Open: 'Israel's Acts-era signs' left in the Section 2 title, its callout title, review question 3 and a Teaching Outline bullet (as approved 1 Oct); ruling pending. Previews 2/3/8; site.js 44:19; page-count text 19, interior 18.

diff --git a/controlling-documents/Digital_Studies_PAM_Audit_v1.169.md b/controlling-documents/Digital_Studies_PAM_Audit_v1.169.md
@@ -398,3 +398,4 @@ Study 15 PDF not yet supplied. Typography: none of Studies 2, 3, 6, 8 is in EB G
 - v1.166 (2026-10-03): Study 43 rebuilt in Roboto at 10 pt, 17 pages (see Retrofit Plan v1.72).
 - v1.167 (2026-10-03): Study 54 rebuilt in Roboto at 10 pt, 17 pages (see Retrofit Plan v1.73).
 - v1.168 (2026-10-03): Study 42 rebuilt in Roboto at 10 pt, 17 pages (see Retrofit Plan v1.74).
+- v1.169 (2026-10-03): Study 44 rebuilt in Roboto at 10 pt, 19 pages (see Retrofit Plan v1.75).
